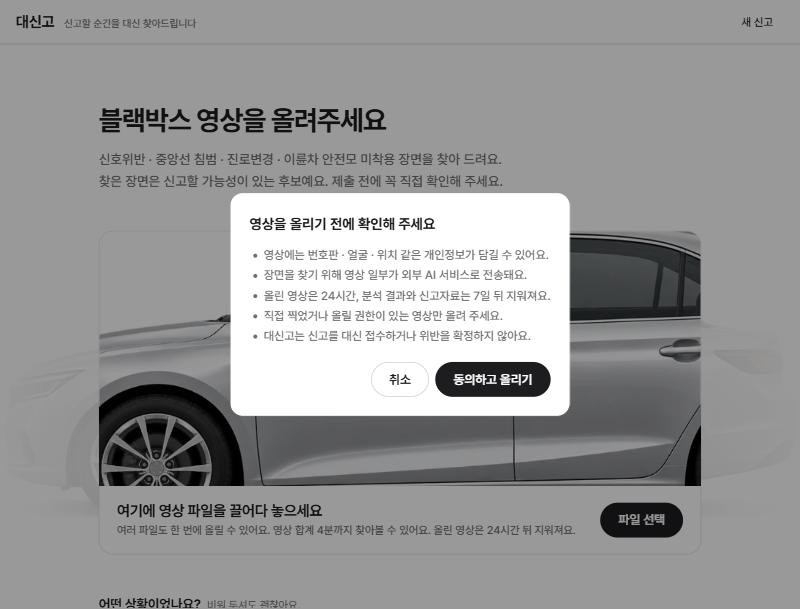
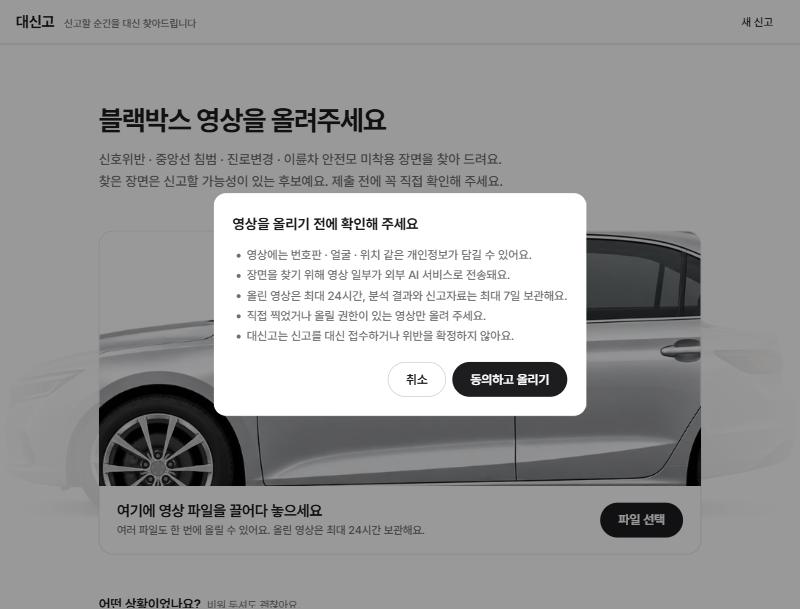
fix(web): 확정 전인 4분 한도를 빼고 보관 안내를 「최대 N 보관해요」로 바꾼다 (#606 리뷰)

diff --git a/apps/web/src/screens/UploadScreen.tsx b/apps/web/src/screens/UploadScreen.tsx
@@ -12,9 +12,9 @@ import { Puffs, SpeedLines, burst, seeded, type Puff, type Speed } from '../comp
 import { videoTime, videoTimeText, type VideoTime } from '../state/videoTime'
 
 const EXAMPLE = '6시 반쯤 미금역 근처에서 흰색 SUV가 실선을 넘어 제 앞으로 끼어들었어요.'
-// 공개 운영 한도·원본 보관 안내 — 4분은 지금 배포의 분석 범위 상한(DAESINGO_RECORDING_ANALYSIS_MAX_DURATION_MS=240000,
-// environment-and-deployment-config §3). 48 MiB는 변환한 분석 영상 한도라 업로드 크기로 적지 않는다. 배포 값이 바뀌면 이 줄만 바꾼다
-const LIMIT_TEXT = '영상 합계 4분까지 찾아볼 수 있어요. 올린 영상은 24시간 뒤 지워져요.'
+// 원본 보관 안내 — 공유된 보관 정책(원본 최대 24시간)만 적는다. 공개 한도는 확정 전이라 숫자를 적지 않고,
+// 너무 긴 영상은 서버 안내(notice.analysis_range_too_long)가 알린다. 실제 삭제 확인은 공개 게이트(#606 철원 님 답)
+const LIMIT_TEXT = '올린 영상은 최대 24시간 보관해요.'
 
 export type UploadState = 'idle' | 'uploading' | 'done' | 'fail'
 
@@ -508,7 +508,7 @@ export function UploadScreen(props: {
             <ul>
               <li>영상에는 번호판 · 얼굴 · 위치 같은 개인정보가 담길 수 있어요.</li>
               <li>장면을 찾기 위해 영상 일부가 외부 AI 서비스로 전송돼요.</li>
-              <li>올린 영상은 24시간, 분석 결과와 신고자료는 7일 뒤 지워져요.</li>
+              <li>올린 영상은 최대 24시간, 분석 결과와 신고자료는 최대 7일 보관해요.</li>
               <li>직접 찍었거나 올릴 권한이 있는 영상만 올려 주세요.</li>
               <li>대신고는 신고를 대신 접수하거나 위반을 확정하지 않아요.</li>
             </ul>
